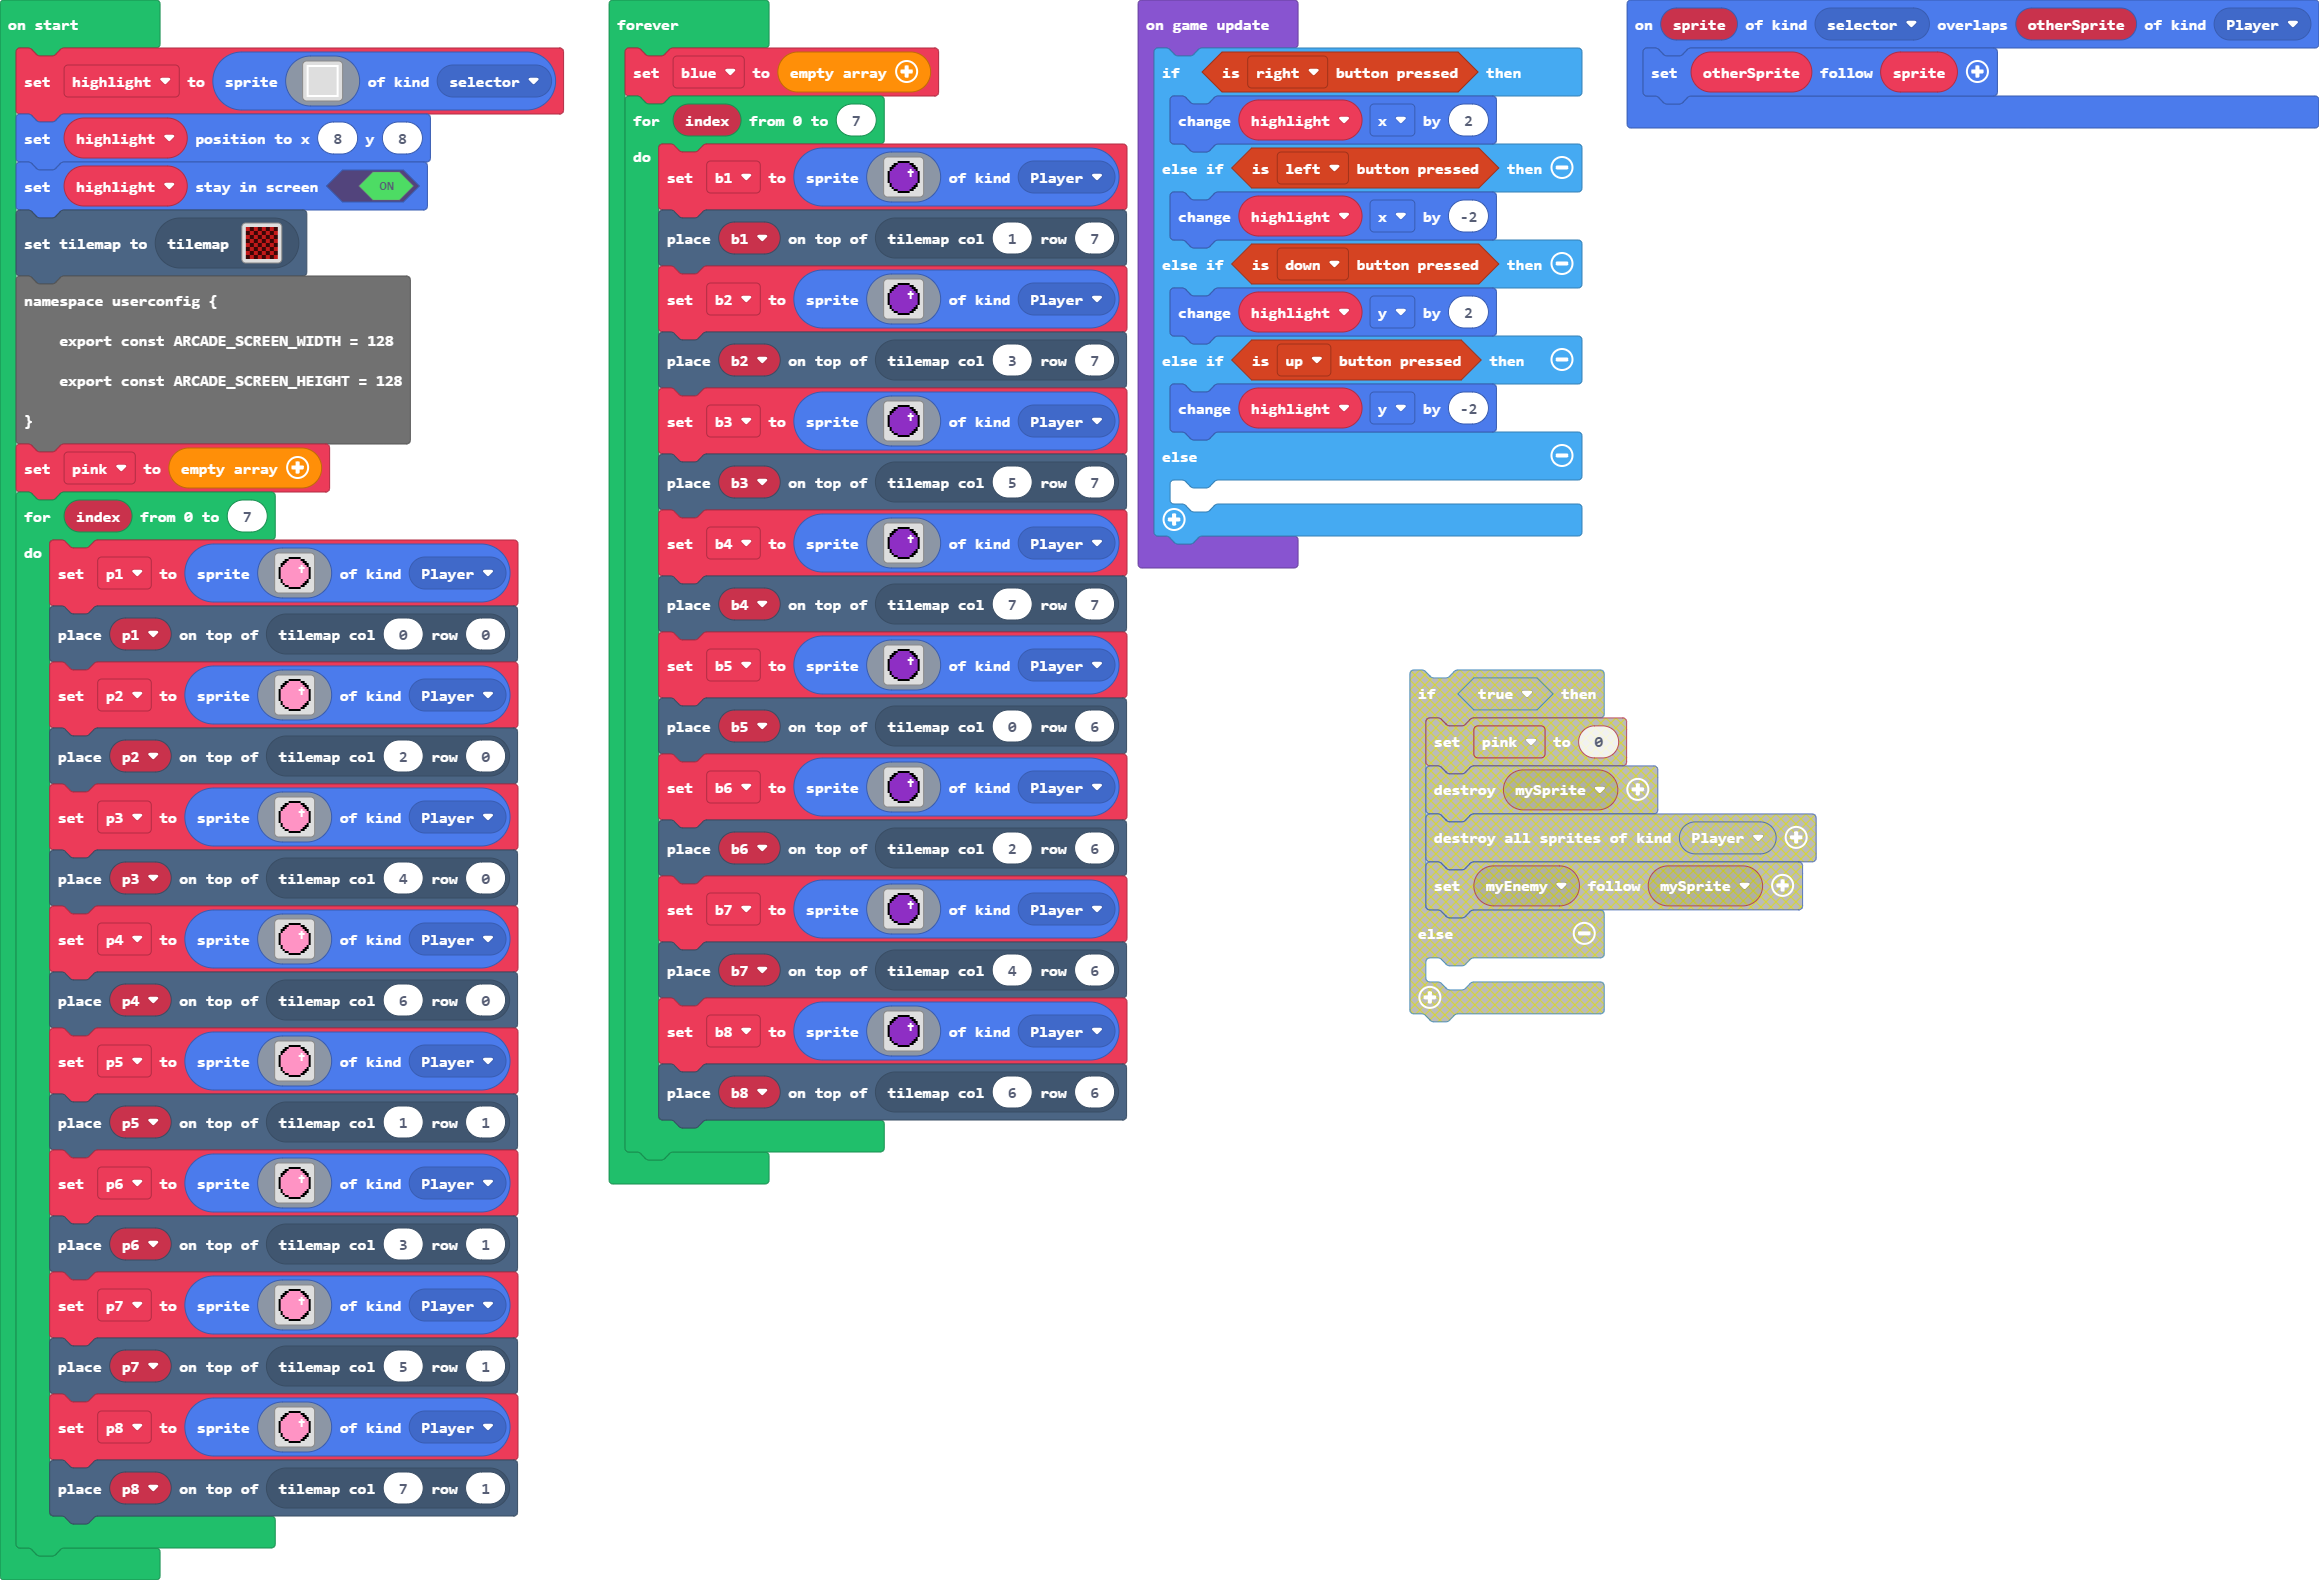
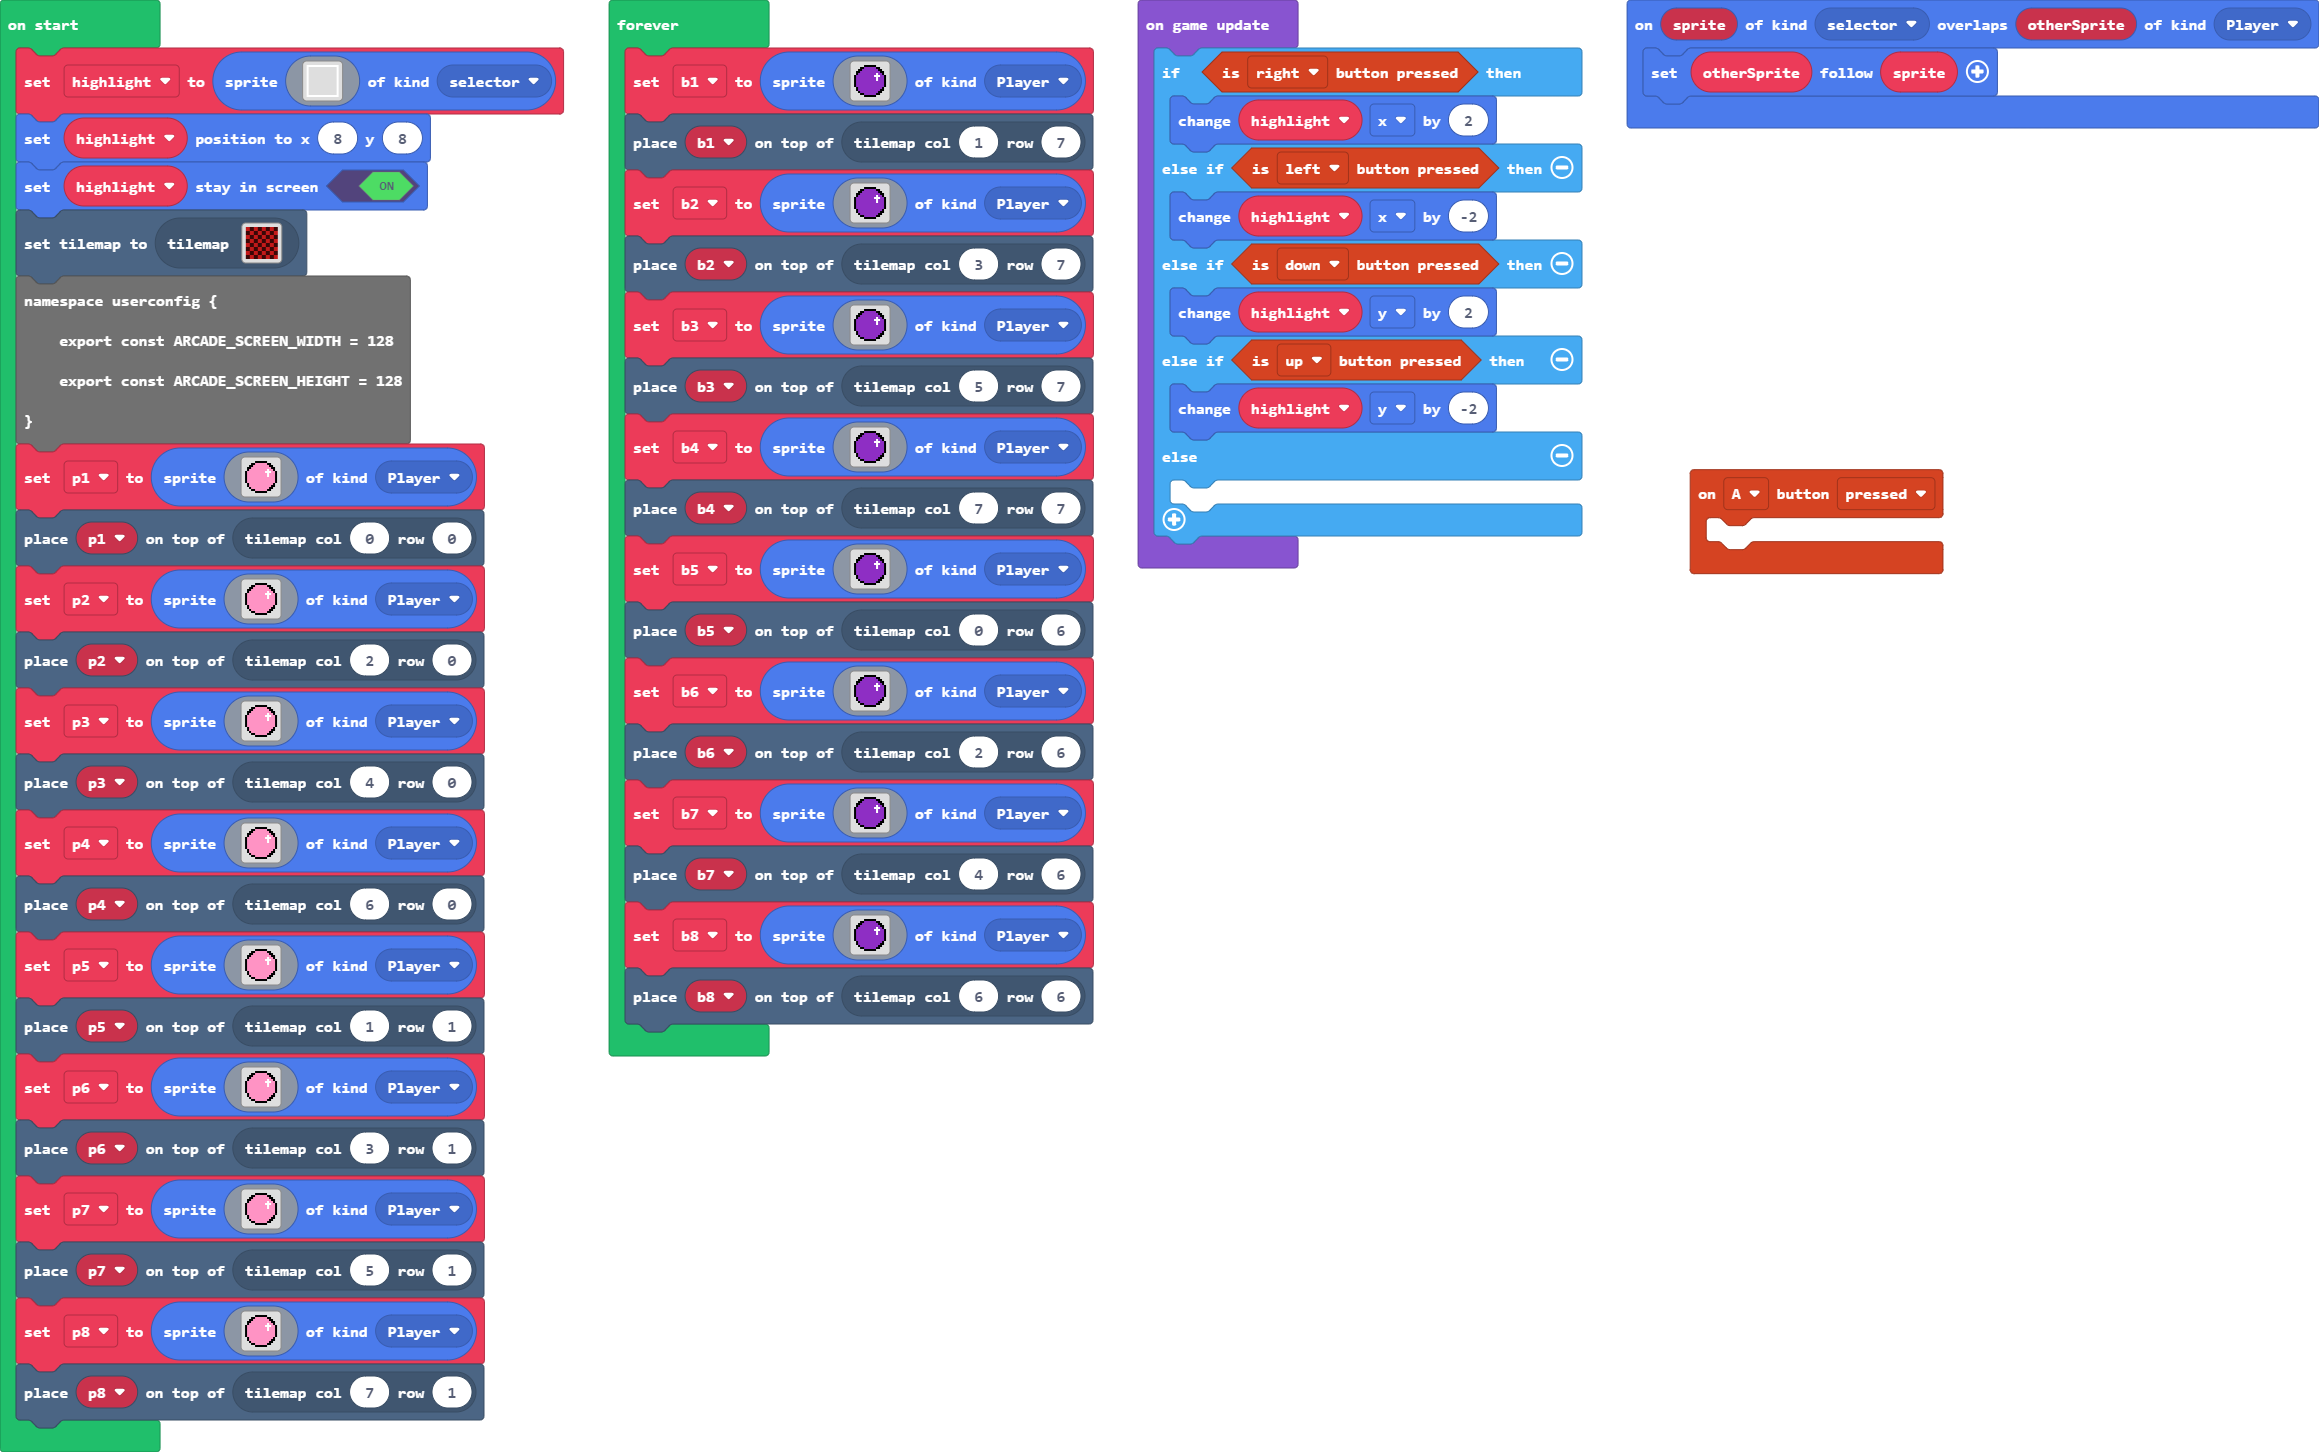
Update main.blocks, main.ts

diff --git a/main.ts b/main.ts
@@ -1,6 +1,9 @@
 namespace SpriteKind {
     export const selector = SpriteKind.create()
 }
+controller.A.onEvent(ControllerButtonEvent.Pressed, function () {
+	
+})
 sprites.onOverlap(SpriteKind.selector, SpriteKind.Player, function (sprite, otherSprite) {
     otherSprite.follow(sprite)
 })
